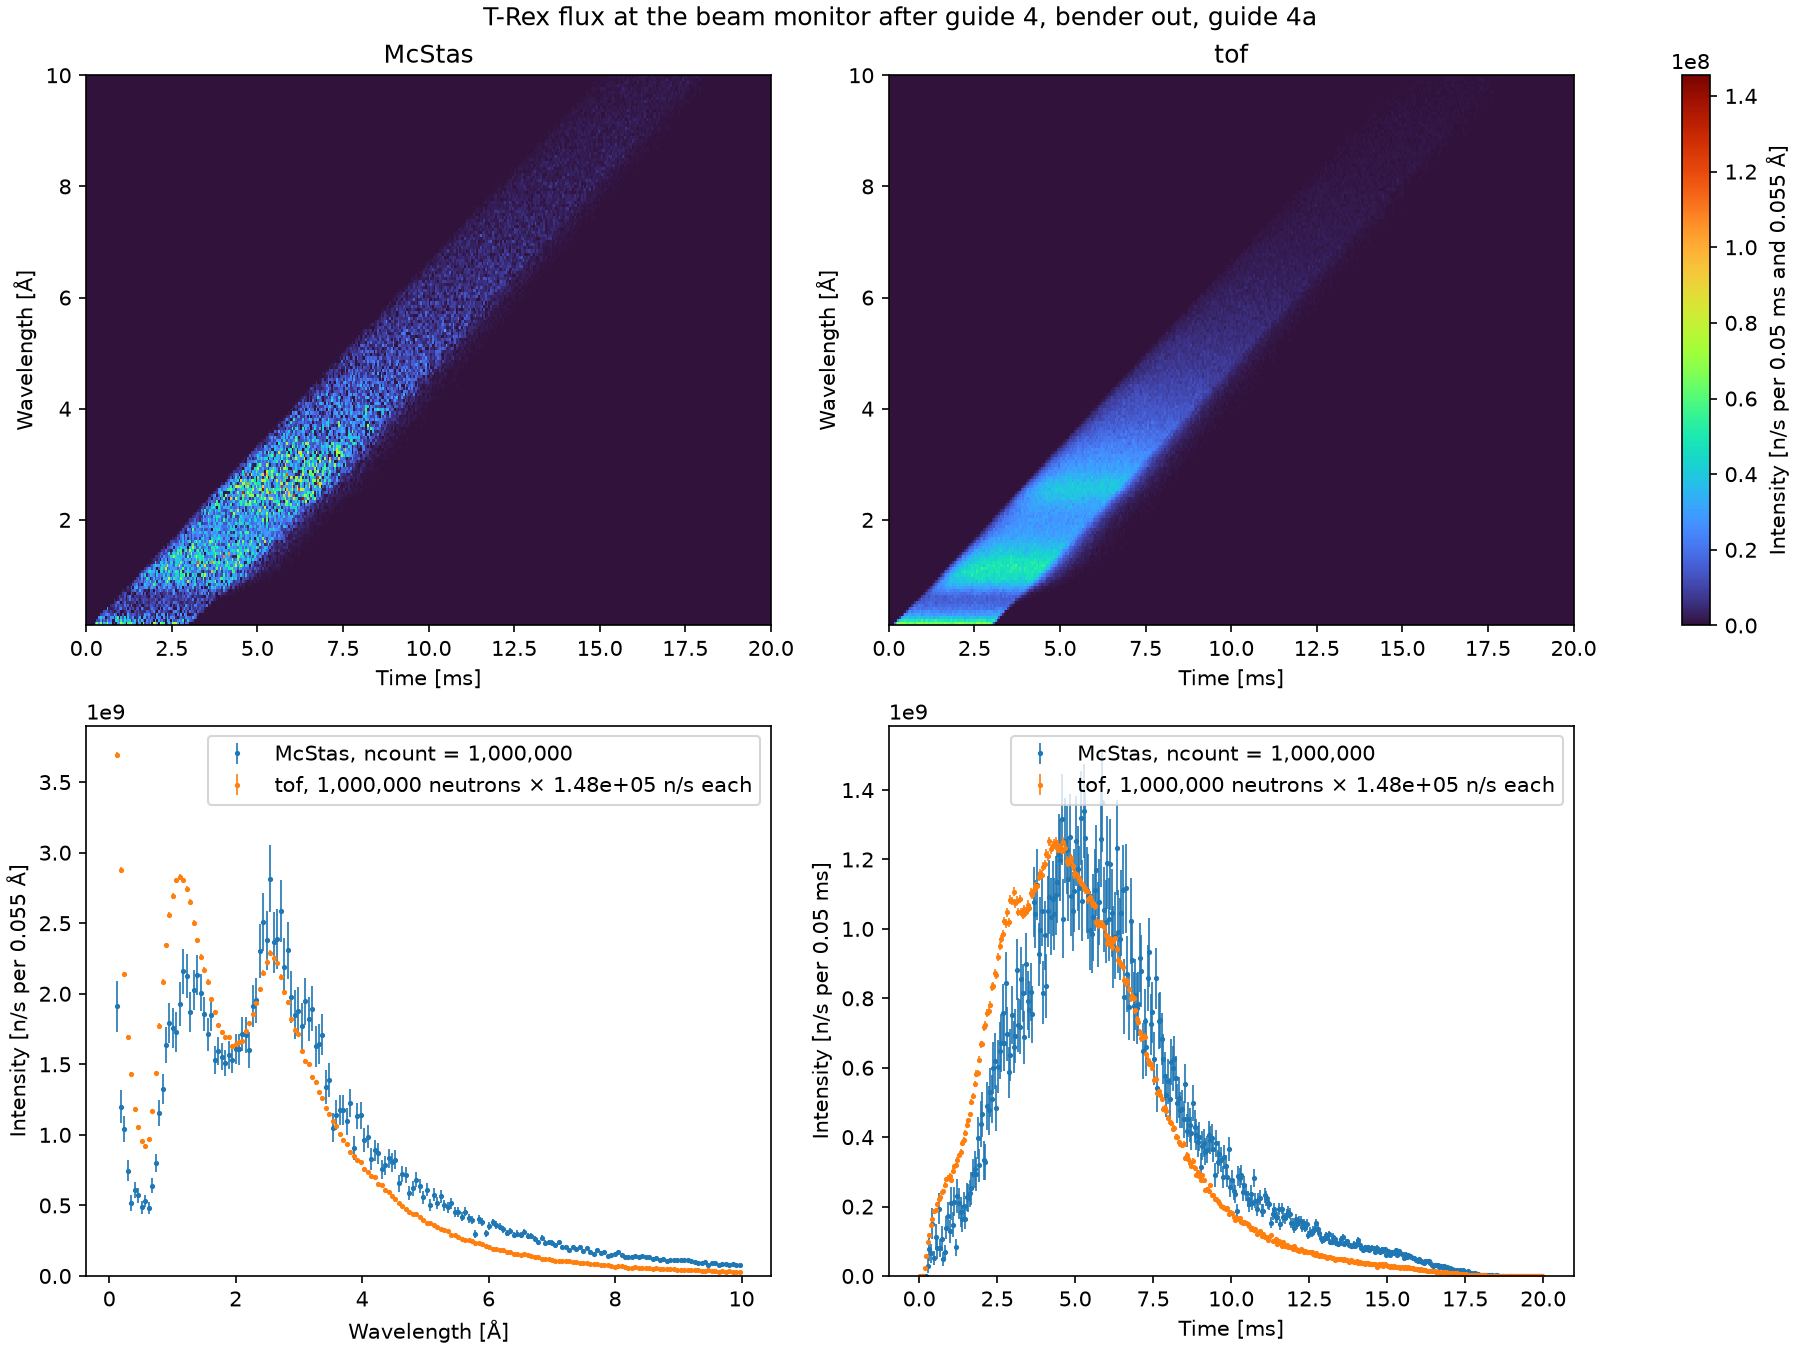
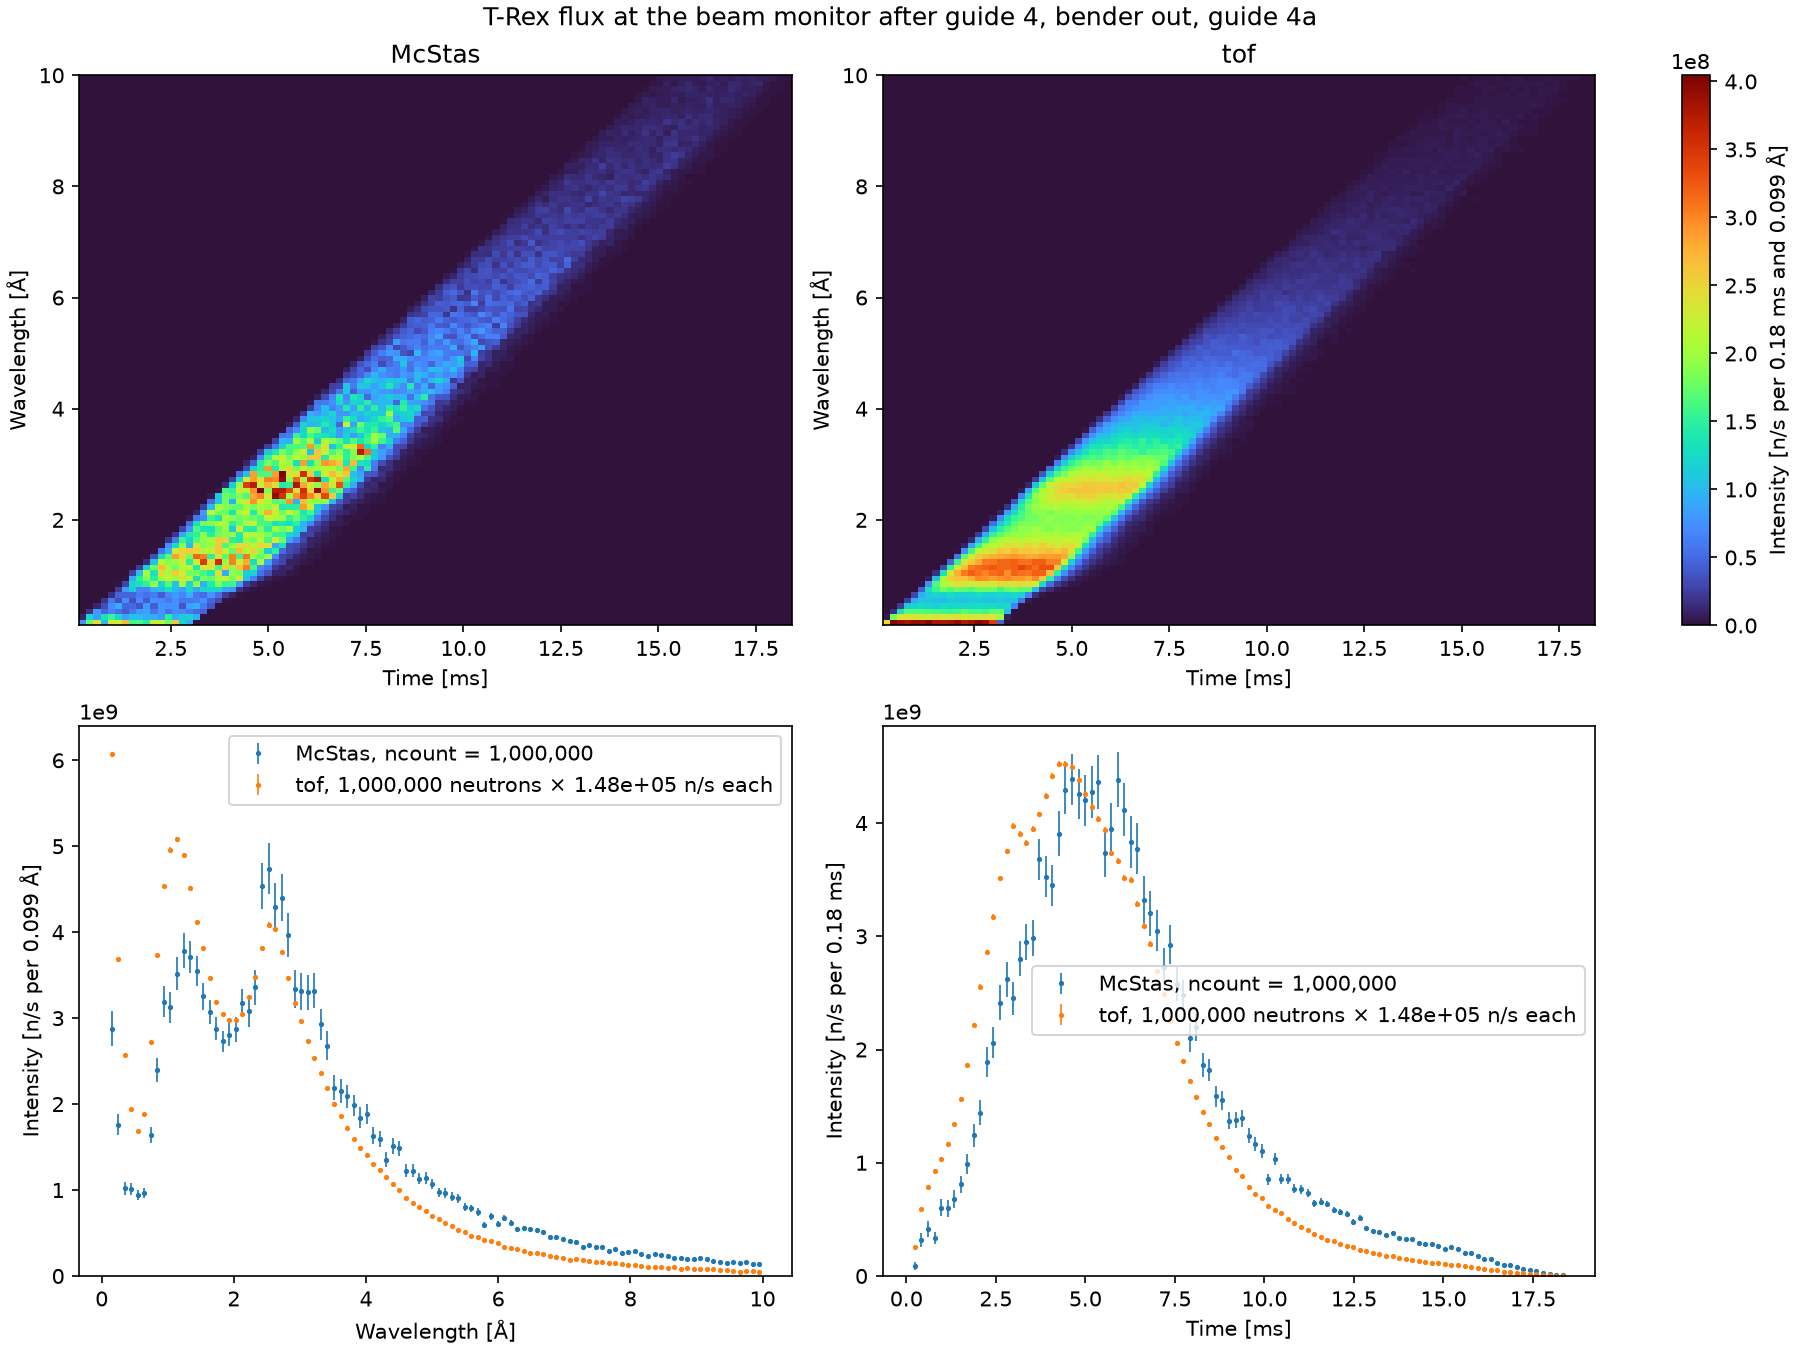
Fix the tests, the files of the docs and the bender scan for the new band
The tests check the band of the source around lambda0, and that a new
lambda0 moves it; the extraction is T-Rex but for the band of its source
and beam monitor. params.yaml and the files of the docs are made again.
The bender scan sums the beam monitor in bands of 0.5 Å centered on its
multiples, each bin in the band of the nearest center, and colors each
band from turbo by its center, with a colorbar.

diff --git a/src/mcdgs/diagnostics/trex/bender_scan.py b/src/mcdgs/diagnostics/trex/bender_scan.py
@@ -1,7 +1,7 @@
 """How the bender passes each band of wavelengths, from a scan of its rotation.
 
 The scan runs the :class:`.Extraction` and reads its beam monitor, after guide 4: its time and
-wavelength map, summed over time, in bands of :data:`BAND_BINS` wavelength bins.
+wavelength map, summed over time, in bands of :data:`BAND_WIDTH` centered on its multiples.
 :func:`run_bender_scan` scans ``b_rot`` with the bender in, and runs once with it out;
 :func:`plot_bender_scan` draws the intensity per band of the scan over that of the same band
 with the bender out, from :func:`transmission`. :func:`read_angles` and :func:`read_spectra`
@@ -15,6 +15,8 @@ from pathlib import Path
 import h5py
 import matplotlib.pyplot as plt
 import numpy as np
+from matplotlib.cm import ScalarMappable
+from matplotlib.colors import Normalize
 from matplotlib.figure import Figure
 from mcstastox.LoadFile import Data
 from numpy.typing import NDArray
@@ -24,7 +26,7 @@ from mcdgs.diagnostics.trex.extraction import Extraction
 from mcdgs.instruments.trex.guides.bispectral import BENDER_ROTATION
 from mcdgs.mcstas.simulation import Simulation
 
-BAND_BINS = 8  # wavelength bins of the beam monitor per band: 12 bands of 0.442 Å, 0 to 5.3 Å
+BAND_WIDTH = 0.5  # Å: the bands are centered on its multiples, 0.5, 1.0, 1.5 Å, ...
 
 
 def transmission(
@@ -83,8 +85,10 @@ def read_spectra(h5_file: Path) -> tuple[NDArray, NDArray, NDArray]:
     """Read the intensity per wavelength band at the beam monitor of every scan point.
 
     The map of the beam monitor is summed over time, then over each band of
-    :data:`BAND_BINS` wavelength bins. The bins are independent, so their errors add in
-    quadrature.
+    :data:`BAND_WIDTH`, centered on a multiple of it. A wavelength bin goes to the band whose
+    center is nearest to its own, so a band's edges are those of its bins, within half a bin of
+    the band's. Only the bands the axis of the monitor covers whole are kept. The bins are
+    independent, so their errors add in quadrature.
 
     Parameters
     ----------
@@ -100,7 +104,7 @@ def read_spectra(h5_file: Path) -> tuple[NDArray, NDArray, NDArray]:
     Raises
     ------
     ValueError
-        If the wavelength bins of the beam monitor are not a whole number of bands.
+        If the axis of the beam monitor covers no band whole.
     """
     wavelengths, intensities, variances = np.empty(0), [], []
     with h5py.File(h5_file) as file:
@@ -113,14 +117,24 @@ def read_spectra(h5_file: Path) -> tuple[NDArray, NDArray, NDArray]:
             variances.append((time_map["errors"][()] ** 2).sum(axis=0))
             wavelengths = time_map["Wavelength__Angs_"][()]  # the bin centers
 
-    if len(wavelengths) % BAND_BINS:
+    half_bin = (wavelengths[1] - wavelengths[0]) / 2
+    start, stop = wavelengths[0] - half_bin, wavelengths[-1] + half_bin  # the axis, in Å
+    band_of_bin = np.rint(wavelengths / BAND_WIDTH).astype(int)  # the nearest center, in widths
+    tolerance = 1e-9  # Å: an edge of the axis on that of a band covers it
+    whole = [
+        int(band)
+        for band in np.unique(band_of_bin)
+        if (band - 0.5) * BAND_WIDTH >= start - tolerance
+        and (band + 0.5) * BAND_WIDTH <= stop + tolerance
+    ]
+    if not whole:
         raise ValueError(
-            f"{len(wavelengths)} wavelength bins are not a whole number of bands of {BAND_BINS}"
+            f"the wavelength axis, {start:.4g} to {stop:.4g} Å, covers no band of {BAND_WIDTH} Å"
         )
-    bands = (-1, BAND_BINS)  # the last axis, in bands of BAND_BINS bins
-    intensity = np.array(intensities).reshape(len(intensities), *bands).sum(axis=-1)
-    error = np.sqrt(np.array(variances).reshape(len(variances), *bands).sum(axis=-1))
-    return wavelengths.reshape(bands).mean(axis=-1), intensity, error
+    intensity_bins, variance_bins = np.array(intensities), np.array(variances)
+    intensity = np.stack([intensity_bins[:, band_of_bin == b].sum(axis=1) for b in whole], 1)
+    variance = np.stack([variance_bins[:, band_of_bin == b].sum(axis=1) for b in whole], 1)
+    return np.array(whole) * BAND_WIDTH, intensity, np.sqrt(variance)
 
 
 def run_bender_scan(
@@ -167,7 +181,7 @@ def plot_bender_scan(scan_file: Path, bender_out_file: Path) -> Figure:
     """Draw the scan of :func:`run_bender_scan`.
 
     Each curve is one wavelength band, divided by the same band without the bender, so the
-    bender-out intensity is 1.
+    bender-out intensity is 1. Its color is the center of the band, on the colorbar.
 
     Parameters
     ----------
@@ -187,21 +201,23 @@ def plot_bender_scan(scan_file: Path, bender_out_file: Path) -> Figure:
     reference, reference_error = bender_out[0], bender_out_error[0]
 
     ratio, ratio_error = transmission(intensity, error, reference, reference_error)
-    half_width = (centers[1] - centers[0]) / 2
 
-    fig, ax = plt.subplots()
+    # one color per band, by its center, from the edge of the first band to that of the last
+    norm = Normalize(centers[0] - BAND_WIDTH / 2, centers[-1] + BAND_WIDTH / 2)
+    colors = ScalarMappable(norm=norm, cmap="turbo")
+    fig, ax = plt.subplots(figsize=(7, 4.8), layout="constrained")
     for band, center in enumerate(centers):
-        label = f"{center:.4g}±{half_width:.4g} Å"
-        ax.errorbar(angles, ratio[:, band], ratio_error[:, band], color=f"C{band}", label=label)
+        ax.errorbar(angles, ratio[:, band], ratio_error[:, band], color=colors.to_rgba(center))
     ax.axhline(1, color="black", linestyle="--", label="bender out")
     ax.axvline(
         BENDER_ROTATION, color="black", linestyle=":", label=f"b_rot = {BENDER_ROTATION:.3f} deg"
     )
     ax.set_ylim(bottom=0)
-    ax.set_xlim(right=0.8)
     ax.set_xlabel("b_rot [deg]")
     ax.set_ylabel("Intensity at the beam monitor / bender out")
-    ax.legend()
+    ax.legend(loc="lower right")
+    colorbar = fig.colorbar(colors, ax=ax, ticks=centers[1::2])
+    colorbar.set_label(f"Center of the band of {BAND_WIDTH} Å [Å]")
     return fig
 
 

diff --git a/tests/diagnostics/trex/test_trex_bender_scan.py b/tests/diagnostics/trex/test_trex_bender_scan.py
@@ -2,7 +2,7 @@ import h5py
 import numpy as np
 import pytest
 
-from mcdgs.diagnostics.trex.bender_scan import BAND_BINS, read_spectra, transmission
+from mcdgs.diagnostics.trex.bender_scan import read_spectra, transmission
 
 
 def test_the_transmission_divides_each_band_by_the_reference():
@@ -21,9 +21,8 @@ def test_the_relative_errors_of_the_transmission_add_in_quadrature():
     assert ratio_error[0, 0] == pytest.approx(0.05 * 0.5)
 
 
-def _write_scan(path, maps):
+def _write_scan(path, maps, wavelengths):
     """A file as McStas writes a scan, with one entry per (data, errors) map of the beam monitor."""
-    wavelengths = np.linspace(0.05, 1.55, 2 * BAND_BINS)  # bin centers: two bands
     with h5py.File(path, "w") as file:
         for n, (data, errors) in enumerate(maps, start=1):
             components = file.create_group(f"entry{n}/instrument/components")
@@ -32,38 +31,45 @@ def _write_scan(path, maps):
             time_map["data"] = data
             time_map["errors"] = errors
             time_map["Wavelength__Angs_"] = wavelengths
-    return wavelengths
+
+
+# bin centers of 0.1 Å bins from 0.25 to 1.25 Å: the bands at 0.5 and 1.0 Å, 5 bins each
+TWO_BANDS = np.arange(0.3, 1.25, 0.1)
 
 
 def test_the_spectra_are_read_in_the_order_of_the_scan(tmp_path):
     # 11 entries: by name, entry10 and entry11 would come before entry2
-    shape = (3, 2 * BAND_BINS)  # 3 time bins
+    shape = (3, len(TWO_BANDS))  # 3 time bins
     maps = [(np.full(shape, float(n)), np.full(shape, 0.0)) for n in range(1, 12)]
-    _write_scan(tmp_path / "mccode.h5", maps)
+    _write_scan(tmp_path / "mccode.h5", maps, TWO_BANDS)
     _, intensity, _ = read_spectra(tmp_path / "mccode.h5")
     assert intensity.shape == (11, 2)
-    # each band sums 3 time bins and BAND_BINS wavelength bins
-    np.testing.assert_allclose(intensity[:, 0], np.arange(1, 12) * 3 * BAND_BINS)
+    # each band sums 3 time bins and 5 wavelength bins
+    np.testing.assert_allclose(intensity[:, 0], np.arange(1, 12) * 3 * 5)
 
 
 def test_a_band_sums_its_bins_and_their_errors_in_quadrature(tmp_path):
-    shape = (4, 2 * BAND_BINS)  # 4 time bins
-    wavelengths = _write_scan(tmp_path / "mccode.h5", [(np.ones(shape), np.full(shape, 0.5))])
+    shape = (4, len(TWO_BANDS))  # 4 time bins
+    _write_scan(tmp_path / "mccode.h5", [(np.ones(shape), np.full(shape, 0.5))], TWO_BANDS)
     centers, intensity, error = read_spectra(tmp_path / "mccode.h5")
-    np.testing.assert_allclose(centers, wavelengths.reshape(2, BAND_BINS).mean(axis=1))
-    n_bins = 4 * BAND_BINS
+    np.testing.assert_allclose(centers, [0.5, 1.0])
+    n_bins = 4 * 5
     np.testing.assert_allclose(intensity, [[n_bins, n_bins]])
     np.testing.assert_allclose(error, [[0.5 * np.sqrt(n_bins)] * 2])
 
 
-def test_bins_that_are_not_whole_bands_are_refused(tmp_path):
-    shape = (1, BAND_BINS + 1)
-    with h5py.File(tmp_path / "mccode.h5", "w") as file:
-        time_map = file.create_group("entry1/instrument/components/0010_beam_monitor").create_group(
-            "output/beam_monitor_t_L"
-        )
-        time_map["data"] = np.ones(shape)
-        time_map["errors"] = np.ones(shape)
-        time_map["Wavelength__Angs_"] = np.arange(BAND_BINS + 1)
-    with pytest.raises(ValueError, match="whole number of bands"):
+def test_the_bands_the_axis_cuts_are_left_out(tmp_path):
+    wavelengths = np.arange(0.1, 0.95, 0.1)  # 0.05 to 0.95 Å: only the band at 0.5 Å is whole
+    shape = (1, len(wavelengths))
+    _write_scan(tmp_path / "mccode.h5", [(np.ones(shape), np.ones(shape))], wavelengths)
+    centers, intensity, _ = read_spectra(tmp_path / "mccode.h5")
+    np.testing.assert_allclose(centers, [0.5])
+    np.testing.assert_allclose(intensity, [[5]])
+
+
+def test_an_axis_with_no_whole_band_is_refused(tmp_path):
+    wavelengths = np.arange(0.15, 0.4, 0.1)  # 0.1 to 0.4 Å
+    shape = (1, len(wavelengths))
+    _write_scan(tmp_path / "mccode.h5", [(np.ones(shape), np.ones(shape))], wavelengths)
+    with pytest.raises(ValueError, match="covers no band"):
         read_spectra(tmp_path / "mccode.h5")

diff --git a/tests/instruments/trex/test_trex.py b/tests/instruments/trex/test_trex.py
@@ -73,12 +73,27 @@ def test_the_components_are_in_beam_order():
     ]
 
 
+# half the band: (h / m_n) (1 / 14 Hz + 3.5 ms) / 163.8 m, over 2
+HALF_BAND = 0.5 * 3956.034006 * (1 / 14 + 3.5e-3) / 163.8  # Å
+
+
 def test_the_source_is_that_of_trex_primary():
     source = TRex().source
     assert (source.sector, source.beamline, source.acc_power) == ("W", 7, 2)
     assert (source.yheight, source.cold_frac, source.dist) == (0.03, 0.3, 2)
     assert (source.focus_xw, source.focus_yh) == (0.095, 0.035)
-    assert (source.Lmin, source.Lmax, source.n_pulses) == (0.1, 10.0, 1)
+    assert source.n_pulses == 1
+
+
+def test_the_band_of_the_source_is_centered_on_lambda0():
+    source = TRex().source
+    assert (source.Lmin, source.Lmax) == pytest.approx((2.0 - HALF_BAND, 2.0 + HALF_BAND))
+
+
+def test_a_new_lambda0_moves_the_band_of_the_source():
+    trex = TRex()
+    trex.update_params(lambda0=4.0)
+    assert (trex.source.Lmin, trex.source.Lmax) == pytest.approx((4.0 - HALF_BAND, 4.0 + HALF_BAND))
 
 
 def test_the_beam_monitor_is_in_the_middle_of_its_gap():

diff --git a/tests/diagnostics/trex/test_trex_extraction.py b/tests/diagnostics/trex/test_trex_extraction.py
@@ -1,3 +1,5 @@
+from dataclasses import replace
+
 from mcdgs.diagnostics.trex.extraction import Extraction, ExtractionParams
 from mcdgs.instruments.trex.guides.bispectral import BENDER_ROTATION
 from mcdgs.instruments.trex.model import TRex
@@ -13,7 +15,13 @@ def test_the_extraction_is_trex_up_to_the_beam_monitor():
     assert list(extraction.components) == UP_TO_THE_BEAM_MONITOR
     trex = TRex()
     for name, component in extraction.components.items():
-        assert component == trex.components[name], name
+        if name not in ("source", "beam_monitor"):
+            assert component == trex.components[name], name
+    # the extraction keeps the widest band, which only the source and the beam monitor hold
+    assert extraction.source == replace(trex.source, Lmin=0.1, Lmax=10.0)
+    assert extraction.beam_monitor == replace(
+        trex.beam_monitor, options=extraction.beam_monitor.options
+    )
 
 
 def test_the_instrument_parameters_follow_the_control_parameters():
